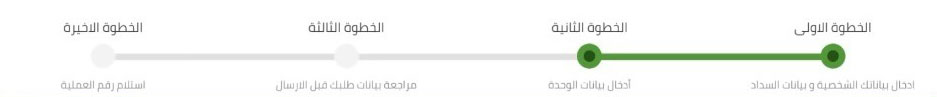
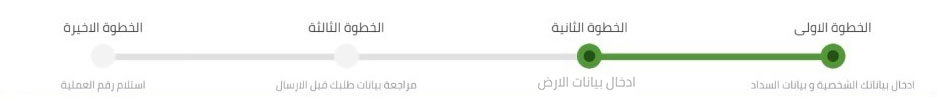
change pic and text

Changed region(s): [[0.5571, 0.8041, 0.6809, 0.9278]]

diff --git a/src/app/step3/step3.component.html b/src/app/step3/step3.component.html
@@ -96,7 +96,7 @@
     </section>
 
     <section class="stepB">
-        <h4 class="green-bg white py-3 pl-2"> بيانات الوحده السكنيه</h4>
+        <h4 class="green-bg white py-3 pl-2"> بيانات الارض</h4>
         <div class="row mt-3 mx-0">
           <div class="col-6">
             <h3 class="font-16">المحافظه </h3>

diff --git a/src/app/step2/step2.component.html b/src/app/step2/step2.component.html
@@ -5,7 +5,7 @@
       <img src="../../assets/img/step2.jpg" alt="">
     </div>
     <section class="stepB">
-      <h4 class="green-bg white py-3 pl-2"> بيانات الوحده السكنيه</h4>
+      <h4 class="green-bg white py-3 pl-2"> بيانات الارض</h4>
       <div class="row mt-3 mx-0">
 
         <div class="col-6">
